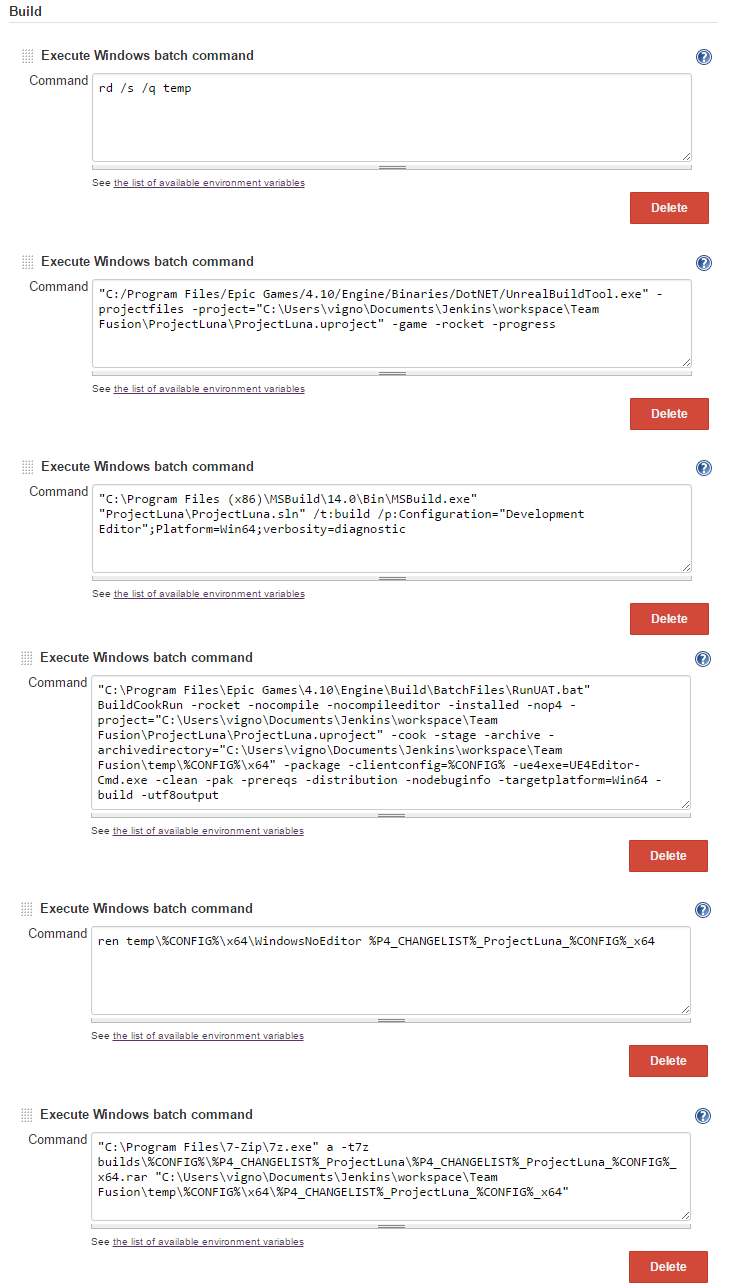
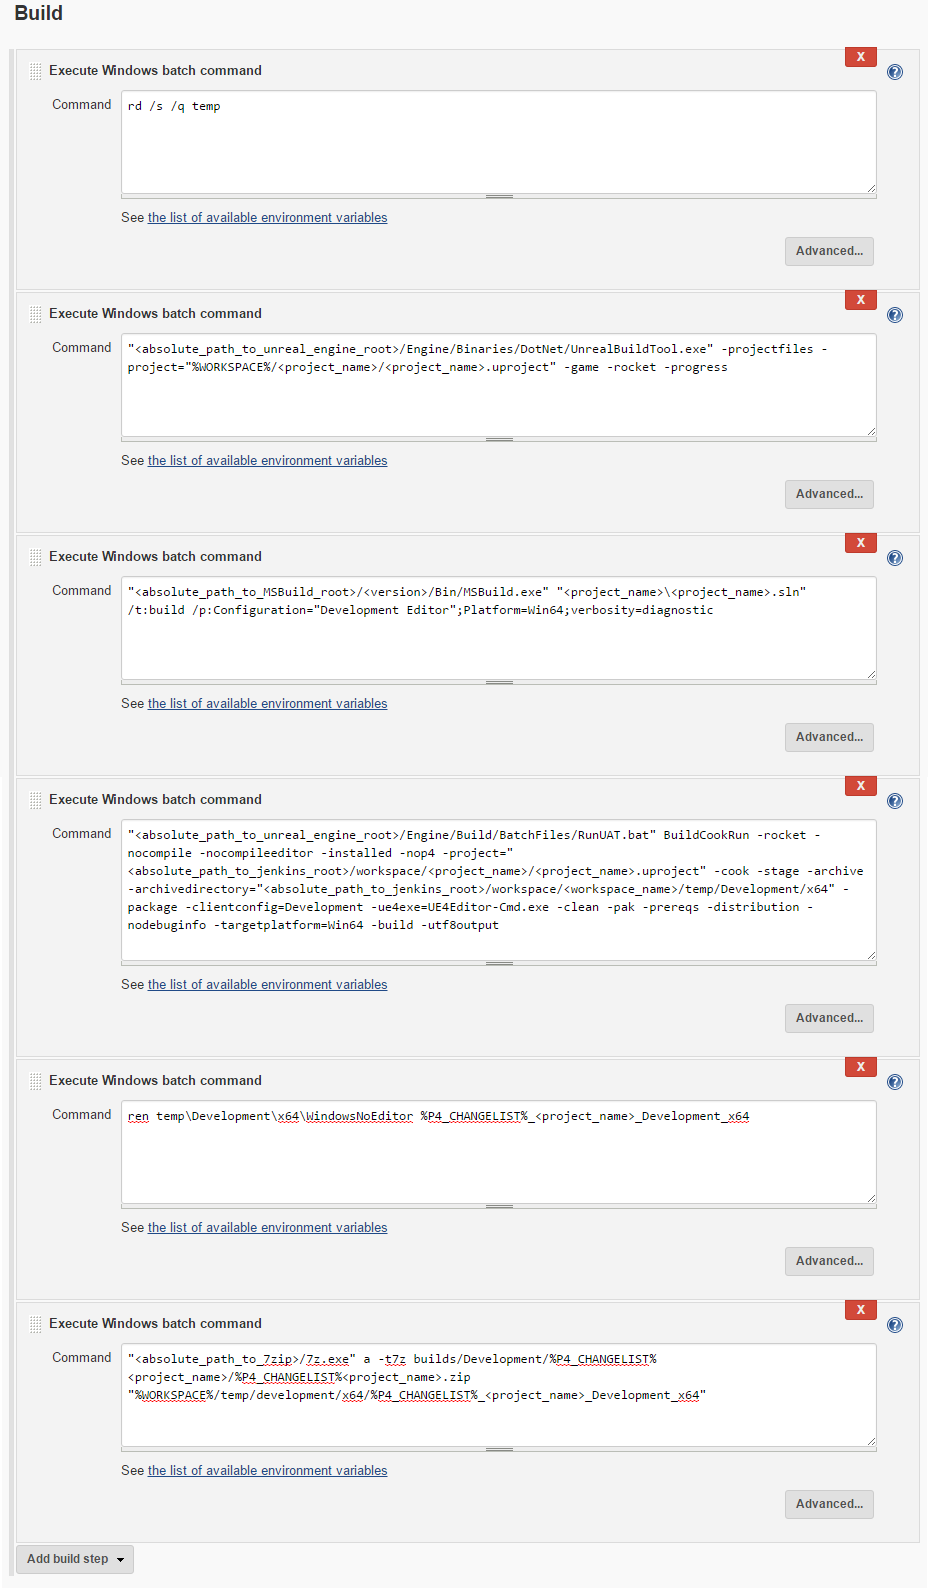
Update the guide for the latest Jenkins version

diff --git a/post/automation-jenkins-unreal.html b/post/automation-jenkins-unreal.html
@@ -119,34 +119,62 @@
                     <h3 class="section-heading" id="setup-jenkins">Setup Jenkins</h3>
 
                     <p>
-						Setupping Jenkins is really easy: all you need is a server you can install the service on. Even though Jenkins runs really well on Linux, in our case we absolutely need a Windows server since it's not possible to build an Unreal Engine game for Windows using anything else.
-						So, once you have downloaded and installed the Windows Installer Package available <a href="https://jenkins.io/content/thank-you-downloading-windows-installer/">over here</a>, you will end up againt a nice welcome page if you type <a href="http://localhost:8080/">localhost:8080</a> in your favorite browser:
+						Setupping Jenkins is really easy: all you need is a server you can install the service on. Even though Jenkins is compatible with Linux, we absolutely need a Windows server to build an Unreal Engine game for Windows.
+						After you have installed the Windows Installer Package available <a href="https://jenkins.io/content/thank-you-downloading-windows-installer/">over here</a> and typed <a href="http://localhost:8080/">localhost:8080</a> in your favorite browser, you should see the following unlock page:
 					</p>
 					
 					<p>
-						<img class="img-responsive" src="../guides/jenkins/jenkins-1.png" alt="Welcome page"></img>
+						<img class="img-responsive" src="../guides/jenkins/jenkins-19.png" alt="Unlock page"></img>
 					</p>
 
 					<p>
-						If you don't see that screen, it probably means that the service didn't start automatically. You can fix this by opening your task manager, going to the "Services" tab and making sure that the status is "Running":
+						If you don't see that screen, it probably means that the service didn't start automatically. You can fix that by opening your task manager, going to the "Services" tab and making sure that the status is "Running":
 					</p>
 					
 					<p>
 						<img class="img-responsive" src="../guides/jenkins/jenkins-2.png" alt="The service is running"></img>
 					</p>
+
+					<p>
+						Once you have successfully unlocked Jenkins, you will see the following customization page:
+					</p>
 					
 					<p>
-						Now, if you try to access your server directly from its IP address, you might see a "This site can't be reached" error. This is probably due to the 8080 port not being forwarded correctly. You can google "How to forward a port" and the steps should be pretty straightforward, depending on your configuration.
+						<img class="img-responsive" src="../guides/jenkins/jenkins-20.png" alt="Customize Jenkins"></img>
+					</p>
+					
+					<p>
+						The option you choose is up to you, but for the sake of this tutorial, we will choose the default "Install suggested plugins" option. After the default plugins have all been installed, you will land on the "Create First Admin User" page:
+					</p>
+					
+					<p>
+						<img class="img-responsive" src="../guides/jenkins/jenkins-21.png" alt="Create First Admin User"></img>
+					</p>
+					
+					<p>
+						Once again, it's up to you to create a custom admin user or use the default one. If you don't create a custom one, you will have to use the long password you entered earlier every time you need to execute admin actions.
 					</p>
 					
 					<h3 class="section-heading" id="create-new-jenkins-project">Create a new Jenkins project</h3>
 
+					<p>
+						First of all, try to access your server's 8080 port directly from its IP address. If you see a "This site can't be reached" error, it's probably due to the 8080 port not being forwarded correctly. If you don't know how to forward a port, <a href="https://portforward.com/router.htm">this is a good place to start</a>.
+					</p>
+					
                     <p>
-						First of all, locate the "New Item" option available in the left sidebar menu of the home page of Jenkins. After clicking on it, select "Freestyle project" and enter the name of your project in the "Item name" field:
+						Now, go back to <a href="http://localhost:8080/">localhost:8080</a> and locate the "New Item" option on the left:</p>
 					</p>
 					
 					<p>
-						<img class="img-responsive" src="../guides/jenkins/jenkins-3.png" alt="The service is running"></img>
+						<img class="img-responsive" src="../guides/jenkins/jenkins-22.png" alt="Welcome to Jenkins!"></img>
+					</p>
+					
+					<p>
+						After clicking on it, enter the name of your project in the "Enter an item name" field, select "Freestyle project" and click the "OK" button:
+					</p>
+					
+					<p>
+						<img class="img-responsive" src="../guides/jenkins/jenkins-3.png" alt="New item"></img>
 					</p>
 					
 					<p>
@@ -164,7 +192,7 @@
                     <h3 class="section-heading" id="link-jenkins-with-perforce">Link Jenkins with perforce (optional)</h3>
 
                     <p>
-						This part is optional and only relevant if you are using Perforce. If you plan to use Subversion or CVS, you can skip it entirely.
+						This part is optional and only relevant if you are using Perforce. If you plan to use Git, Subversion or another source code management system, you can skip it entirely.
 					</p>
 					
 					<p>
@@ -178,7 +206,7 @@
 					</p>
 					
 					<p>
-						Now, if you switch to the "Available" tab and start typing "perforce" in the filter box, you should see the 2 plugins I mentioned earlier. Select "Perforce Plugin" and click on the "Download now and install after restart" button:
+						Now, if you switch to the "Available" tab and type "perforce" in the filter box, you should see the 2 plugins I mentioned earlier. Select "P4 Plugin" and click on the "Download now and install after restart" button:
 					</p>
 					
 					<p>
@@ -186,48 +214,75 @@
 					</p>
 					
 					<p>
-						Jenkins will proceed to install the plugin and, after you check "Restart Jenkins when installation is complete and no jobs are running" (required), you will be able to finally select Perforce as your Source Code Management settings for the project you created earlier.
+						Jenkins will proceed to install the plugin and, after you check "Restart Jenkins when installation is complete and no jobs are running", you will be able to finally select Perforce as your Source Code Management settings for the project you created earlier.
 					</p>
 					
 					<p>
-						<img class="img-responsive" src="../guides/jenkins/jenkins-12.png" alt="Install the Perforce plugin"></img>
+						Now, go back to your project's configuration page, select "Perforce Software" and click on on the "Add" button next to "Perforce Credentials":
 					</p>
 					
 					<p>
-						Now, go back to your project, select Perforce and enter the following informations:
+						<img class="img-responsive" src="../guides/jenkins/jenkins-23.png" alt="Add credentials"></img>
+					</p>
+					
+					<p>
+						A new window will open, and you will have to fill the required fields with your Perforce server's credentials:
+						
 						<ul>
-							<li>The P4PORT of your depot under the format hostname:port (usually hostname:1666)</li>
-							<li>Your perforce username</li>
-							<li>Your perforce password</li>
-							<li>Your perforce workspace</li>
-							<li>The View Map of your depot</li>
+							<li><strong>P4Port:</strong> The address of your depot under the format hostname:port (usually hostname:1666). If you use SSL, don't put the ssl prefix (tick the "SSL connection" checkbox instead)</li>
+							<li><strong>Username:</strong> Your perforce username</li>
+							<li><strong>Password:</strong> Your perforce password</li>
+							<li><strong>Trust:</strong> The fingerprint of your server. This is only required if you use SSL</li>
 						</ul>
 					</p>
 					
 					<p>
-						Most of this infos is straightforward (and I can't help you with it), but if you don't know what to enter for the View Map, just type in your depot under the format <strong>//depot name/...</strong> And if you have no idea what your depot is, you can open the Perforce client and look over here (it's the root):
+						<img class="img-responsive" src="../guides/jenkins/jenkins-24.png" alt="Perforce credentials"></img>
 					</p>
 					
 					<p>
-						<img class="img-responsive" src="../guides/jenkins/jenkins-13.png" alt="Perforce depot name"></img>
+						Click the "Test Connection" button and, if everything is OK, the "Success" message will appear. You can now go ahead and add this credential.
 					</p>
 					
 					<p>
-						If you entered all the information correctly and your depot is now empty, you should be able to hit the "Build" button in the project's left sidebar and see something that looks like this in the Console Output:
+						There are many ways to configure the remaining settings, but my suggestion is to make perforce pull everything from the root of the depot.
+					
+						<ul>
+							<li><strong>Workspace name:</strong> The name of the workspace (folder) where you want Jenkins to store the depot files on your local disk. If the workspace doesn't exist, Jenkins will create it automatically when it starts a job. You can also use wildcards with the job number or perforce revision if you want a new workspace for every job, but this is out of the scope of this tutorial. </li>
+							<li><strong>View Mappings:</strong> Your depot-workspace link information under the format <strong>"//&lt;depot_name&gt;/..." "//&lt;workspace_root&gt;/..."</strong></li>
+						</ul>
+						
+						Leave all the other fields to their default value. When you're done, your settings should look like this:
 					</p>
 					
 					<p>
-						<img class="img-responsive" src="../guides/jenkins/jenkins-14.png" alt="Perforce depot name"></img>
+						<img class="img-responsive" src="../guides/jenkins/jenkins-25.png" alt="Perforce settings"></img>
 					</p>
 					
 					<p>
-						Congratulations, your Perforce setup is now over. It wasn't too hard, but people sometimes struggle with one or two things because they are not sure which plugin to download. Now, the rest of the guide won't need to know if you use Perforce or not.
+						You can now save, go back to your project page and click the "Build Now" link on the left:
+					</p>
+					
+					<p>
+						<img class="img-responsive" src="../guides/jenkins/jenkins-26.png" alt="Build now"></img>
+					</p>
+					
+					<p>
+						If everything was configured correctly, the build color will be blue and you will see the "Finished: SUCCESS" message at the end of the console output.
+					</p>
+					
+					<p>
+						<img class="img-responsive" src="../guides/jenkins/jenkins-27.png" alt="Console output"></img>
+					</p>
+					
+					<p>
+						Congratulations, your Perforce setup is now over. It wasn't too hard, but people sometimes struggle with one or two things because they are not sure which plugin to download or what to put in the "View Mappings" field.
 					</p>
 					
 					<h3 class="section-heading" id="automatically-build-your-game">Automatically build your game</h3>
 
                     <p>
-						This is where we are going to do the bulk of the job and make our automation setup finally come to life. The first thing you need to specify is how often you want Jenkins to build a new version of your game, under the section <strong>Build Triggers</strong>. Usually, the popular option here is "Poll SCM", which means that jenkins will scan your depot every X seconds, minutes or hours and build only if it sees changes. You rarely want to build periodically since it will trigger a lot of useless builds, especially for smaller teams that don't submit a lot of changelists. For the schedule, even though Jenkins explains it well enough if you click on the question mark, it might still be confusing. In my own setup, to poll my SCM every 5 minutes, I used <strong>H/5 * * * *</strong>:
+						This is where we are going to do the bulk of the job and make our automation setup finally come to life. The first thing you need to specify is how often you want Jenkins to build a new version of your game, under the <strong>Build Triggers</strong> tab in the project configuration page. Usually, the popular option here is "Poll SCM", which means that jenkins will scan your depot every X seconds, minutes or hours and build only if it sees changes. You rarely want to build periodically since it will trigger a lot of useless builds, especially for smaller teams that don't submit a lot of changelists. For the polling schedule, even though Jenkins explains it well enough if you click on the question mark, it might still be confusing. In my own setup, to poll my SCM every 5 minutes, I used <strong>H/5 * * * *</strong>:
 					</p>
 					
 					<p>
@@ -235,11 +290,15 @@
 					</p>
 					
 					<p>
-						Now, the section called <strong>Build</strong> is where the real magic happens. This section is located near the bottom of the page, and this is where you will put all your batch commands. <strong>Note: You can also put Shell, Maven or Ant commands, but since we have to use a Windows OS in order to make Windows builds with Unreal, we have to use batch commands.</strong>
+						The <strong>Build</strong> section is where the magic happens since this is how Jenkins will be able to make a build from your source files. You will need to add <strong>6</strong> "Windows batch command" build steps:
 					</p>
 					
 					<p>
-						There are a lot of command setups you can use to build automatically with Unreal Engine, but since the purpose of this guide is to offer a straightforward and A to Z guide for beginners, I will offer my solution. I will therefore put every single command I use, <strong>in order</strong>, and explain its purpose right below.
+						<img class="img-responsive" src="../guides/jenkins/jenkins-28.png" alt="Add build step"></img>
+					</p>
+					
+					<p>
+						Bellow are the 6 commands you need to add in order to make a successful build. <strong>The order is important!</strong>
 					</p>
 					
 					<p>
@@ -253,47 +312,47 @@
 
 					<p>
 						<blockquote class="code">
-							"absolute/path/to/unreal/Engine/Binaries/DotNet/UnrealBuildTool.exe" -projectfiles -project="%WORKSPACE%/ProjectName/ProjectName.uproject" -game -rocket -progress
+							"&lt;absolute_path_to_unreal_engine_root&gt;/Engine/Binaries/DotNet/UnrealBuildTool.exe" -projectfiles -project="%WORKSPACE%/&lt;project_name&gt;/&lt;project_name&gt;.uproject" -game -rocket -progress
 						</blockquote>
 						<ul><li>
-							The absolute path to unreal should look like <strong>C:/Program Files/Epic Games/4.10</strong> and the <strong>%WORKSPACE%</strong> variable will nicely translate the absolute path of your Jenkins project's workspace for you. This command uses the Unreal Build Tool in order to generate the project files and is the equivalent of right-clicking on the .uproject file and selecting <strong>Generate Visual Studio project files</strong>. I didn't find any official documentation on this, but I found it was a necessary step to make sure that the .sln exists and to make sure that all the prerequisites are up to date.
+							&lt;absolute_path_to_unreal_engine_root&gt; usually looks like <strong>C:/Program Files/Epic Games/&lt;version&gt;</strong> and the <strong>%WORKSPACE%</strong> variable will nicely translate the absolute path of your Jenkins project's workspace for you. This command uses the Unreal Build Tool in order to generate the project files and is the equivalent of right-clicking on the .uproject file and selecting <strong>Generate Visual Studio project files</strong>. I didn't find any official documentation on this, but I found it was a necessary step to make sure that the .sln exists and that all the prerequisites are up to date.
 						</li></ul>
 					</p>
 					
 					<p>
 						<blockquote class="code">
-							"absolute/path/to/MSBuild/14.0/Bin/MSBuild.exe" "ProjectName\ProjectName.sln" /t:build /p:Configuration="Development Editor";Platform=Win64;verbosity=diagnostic
+							"&lt;absolute_path_to_MSBuild_root&gt;/&lt;version&gt;/Bin/MSBuild.exe" "&lt;project_name&gt;\&lt;project_name&gt;.sln" /t:build /p:Configuration="Development Editor";Platform=Win64;verbosity=diagnostic
 						</blockquote>
 						<ul><li>
-							The absolute path to MSBuild should look like <strong>C:/Program Files (x86)/MSBuild</strong> and the <strong>14.0</strong> folder is entirely dependant on the version of Visual Studio you have; pick the folder available for you.
-							This command will make sure that the dll (so basically the compiled game) is always up to date. Again, I didn't find any documentation related to this and found the command by trial and error, but I found it to be a crucial step in order to successfully build the game. The reasoning behind it is that, since the game's .dll is not something you should ever version control when working with multiple programmers, something independant needs to build it on its own and this is the best way I found. The build will still work if you omit this command, but it might not be up to date.
+							<strong>&lt;absolute_path_to_MSBuild_root&gt;</strong> usually looks like <strong>C:/Program Files (x86)/MSBuild</strong> and <strong>&lt;version&gt;</strong> is dependant on your version of Visual Studio.
+							This command will make sure that the dll is always up to date. Again, I didn't find any documentation related to this and found the command by trial and error, but I found it to be a crucial step in order to successfully build the game. The reasoning behind it is that since the game's .dll is something you should never version control, Jenkins needs to build it every time it makes a build to make sure it's up-to-date.
 						</li></ul>
 					</p>
 					
 					<p>
 						<blockquote class="code">
[1 lines of base64/hex data omitted]
+							"&lt;absolute_path_to_unreal_engine_root&gt;/Engine/Build/BatchFiles/RunUAT.bat" BuildCookRun -rocket -compile -compileeditor -installed -nop4 -project="&lt;absolute_path_to_jenkins_root&gt;/workspace/&lt;project_name&gt;/&lt;project_name&gt;.uproject" -cook -stage -archive -archivedirectory="&lt;absolute_path_to_jenkins_root&gt;/workspace/&lt;workspace_name&gt;/temp/Development/x64" -package -clientconfig=Development -ue4exe=UE4Editor-Cmd.exe -clean -pak -prereqs -distribution -nodebuginfo -targetplatform=Win64 -build -utf8output
 						</blockquote>
 						<ul><li>
-							This is where most of the job is done. I am not going to explain every parameters in detail, but this command will essentially build the game by using the .dll we compiled earlier and all the assets and blueprints in your project in order to make an executable. If you want faster builds, you can remove the <strong>-clean</strong> parameter, but this is unsafe and you might still need to do a clean build regularly to make sure that you don't have leftovers. You can also change the target platform to target x86 instead (Win32).
+							This is where most of the job is done. I am not going to explain every parameters in detail, but this command will essentially build the game by using the .dll we compiled earlier and all the assets and blueprints in your project in order to make an executable. If you want faster builds, you can remove the <strong>-clean</strong> parameter, but this is unsafe and you might still need to do a clean build regularly to make sure that you don't have leftovers. You can also change the target platform to target <strong>Win32</strong> instead.
 						</li></ul>
 					</p>
 					
 					<p>
 						<blockquote class="code">
-							ren temp\Development\x64\WindowsNoEditor %P4_CHANGELIST%_ProjectName_Development_x64
+							ren temp\Development\x64\WindowsNoEditor %P4_CHANGELIST%_&lt;project_name&gt;_Development_x64
 						</blockquote>
 						<ul><li>
-							This step is completely optional, but it's nice to have and makes things easier to work with. What Unreal does is putting your game in a <strong>WindowsNoEditor</strong>, so what we do here is simply rename that folder to a name that is directly linked to the revision of the SCM. I used <strong>%P4_CHANGELIST%</strong> because I'm working with Perforce, but it works for other SCM too. For Subversion, you can use <strong>%SVN_REVISION%</strong> instead.
+							This step is completely optional, but it's nice to have and makes things easier to work with. Unreal puts your game in a <strong>WindowsNoEditor</strong> folder by default, so we simply rename that folder to a name that is directly linked to the revision of the SCM. I used <strong>%P4_CHANGELIST%</strong> because I'm working with Perforce, but it works for other SCM too. For Subversion, you can use <strong>%SVN_REVISION%</strong> instead.
 						</li></ul>
 					</p>
 					
 					<p>
 						<blockquote class="code">
-							"absolute/path/to/7zip/7z.exe" a -t7z builds/Development/%P4_CHANGELIST%_ProjectName/%P4_CHANGELIST%_ProjectName_Development_x64.rar "%WORKSPACE%/temp/development/x64/%P4_CHANGELIST%_ProjectName_Development_x64"
+							"&lt;absolute_path_to_7zip&gt;/7z.exe" a -t7z builds/Development/%P4_CHANGELIST_%&lt;project_name&gt;/%P4_CHANGELIST_%&lt;project_name&gt;.zip "%WORKSPACE%/temp/development/x64/%P4_CHANGELIST%_&lt;project_name&gt;_Development_x64"
 						</blockquote>
 						<ul><li>
-							For this command, you can choose the file archiver of your choice; it doesn't really matter. It only needs to be able to archive a folder and produce a .rar or a .zip. <strong>Note: If you are using 7zip, you need to provide the full, absolute path to the build folder (e.g. 114700_ProjectName). Otherwise, it will store all the relative folder hierarchy in the .rar archive and bury the executable 5 or 6 folders deep.</strong>
+							For this command, you can choose the file archiver of your choice; it doesn't really matter. It only needs to be able to archive a folder and produce a .rar or a .zip. <strong>Note: If you are using 7zip, you need to provide the full, absolute path to the build folder (e.g. 114700_&lt;project_name&gt;). Otherwise, it will store all the relative folder hierarchy in the .rar archive and bury the executable 5 or 6 folders deep.</strong>
 						</li></ul>
 					</p>
 					
@@ -306,7 +365,7 @@
 					</p>
 					
 					<p>
-						Finally, we need to tell Jenkins where to find our <strong>artifact</strong>. An artifact is something that Jenkins considers as the final result of a build and it's what will be made available over the internet for people to download. In our case, it's the .rar archive we did earlier. We tell Jenkins where to find that artifact in the <strong>Post-build Actions</strong> section, right below the <strong>Build</strong> section we just finished with:
+						Finally, we need to tell Jenkins where to find our <strong>artifact</strong>. An artifact is the final result of a build and it's what will be made available over the internet for people to download. In our case, it's the .zip archive we made earlier. We tell Jenkins where to find that artifact in the <strong>Post-build Actions</strong> section, right below the <strong>Build</strong> section we just finished with:
 					</p>
 					
 					<p>
